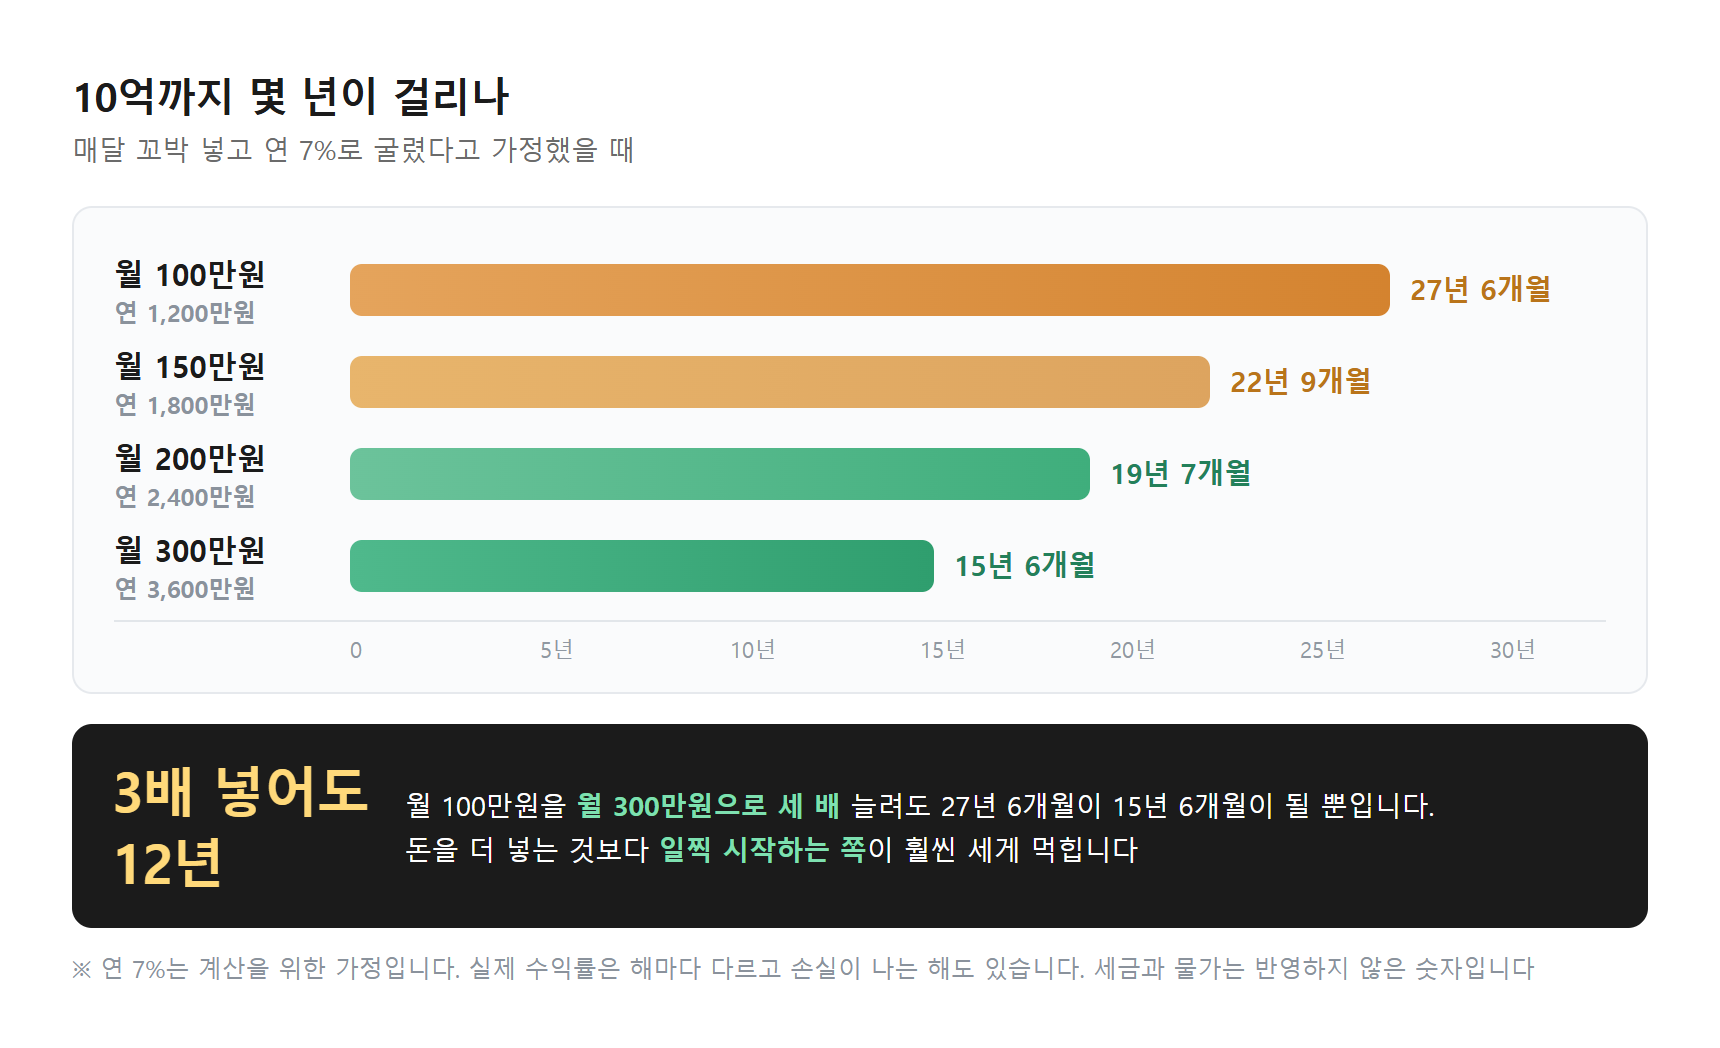
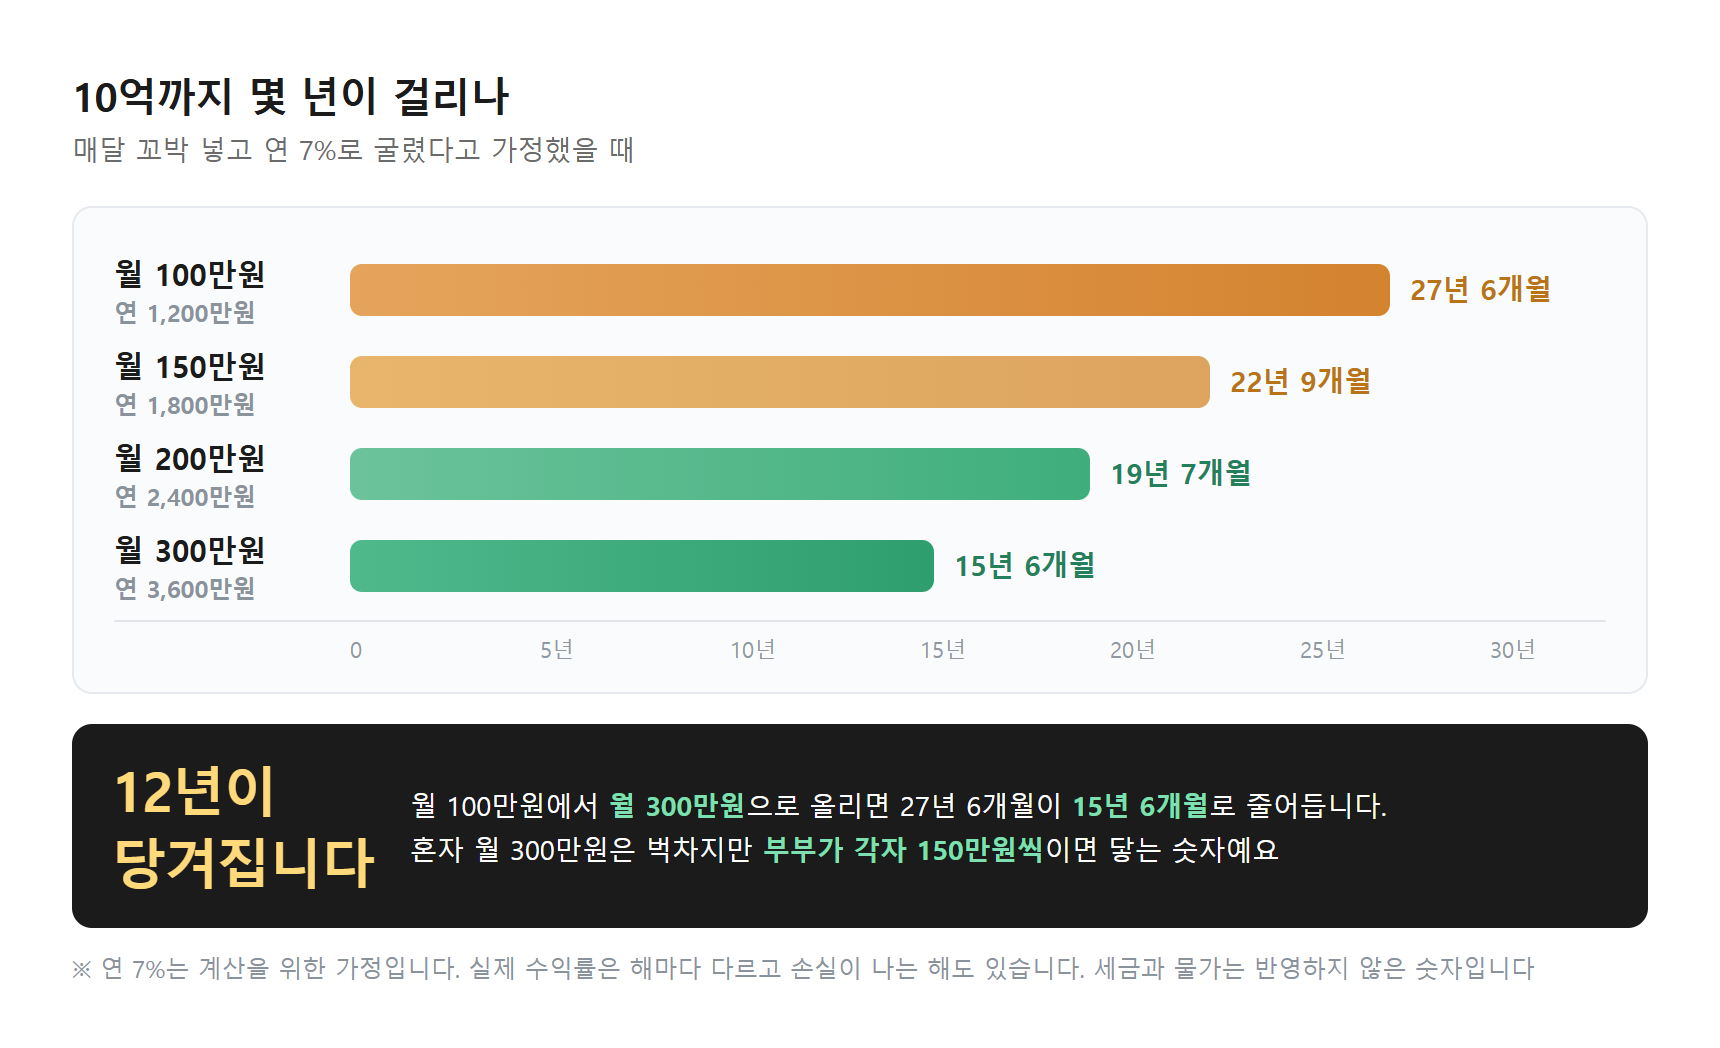
맞벌이·미국지수 vs 부동산 도식 추가

Changed region(s): [[0.0616, 0.7328, 0.832, 0.855]]

diff --git a/art/fi08-tradeoff.html b/art/fi08-tradeoff.html
@@ -1,0 +1,104 @@
+<!doctype html>
+<meta charset="utf-8" />
+<style>
+  * { box-sizing: border-box; margin: 0; padding: 0; }
+  body { background: #fff; }
+  #art {
+    width: 860px; padding: 34px 36px 30px; background: #fff;
+    font-family: 'Pretendard', 'Malgun Gothic', -apple-system, sans-serif; color: #1b1b1b;
+  }
+  h1 { font-size: 20px; letter-spacing: -0.4px; margin-bottom: 4px; }
+  .sub { font-size: 13.5px; color: #6b6b6b; margin-bottom: 20px; }
+
+  .two { display: flex; gap: 12px; margin-bottom: 14px; }
+  .c { flex: 1; border: 1px solid #e2e6ea; border-radius: 12px; overflow: hidden; }
+  .hd { padding: 13px 18px; display: flex; align-items: center; gap: 11px; }
+  .h1 .hd { background: linear-gradient(160deg,#eef4fb,#d9e7f5); }
+  .h2 .hd { background: linear-gradient(160deg,#eef9f3,#d3f0e1); }
+  .hd .t { font-size: 16px; font-weight: 800; letter-spacing: -0.3px; }
+  .h1 .hd .t { color: #1f4a7a; } .h2 .hd .t { color: #1d7050; }
+
+  .bd { padding: 14px 18px 16px; }
+  .sec { font-size: 11.5px; font-weight: 800; margin-bottom: 7px; letter-spacing: .2px; }
+  .sec.g { color: #23805a; } .sec.r { color: #b8463a; }
+  ul { list-style: none; margin-bottom: 13px; }
+  ul:last-child { margin-bottom: 0; }
+  li { font-size: 13px; line-height: 1.6; color: #4a5561; padding-left: 17px;
+       position: relative; margin-bottom: 6px; }
+  li b { color: #1b1b1b; }
+  li::before { position: absolute; left: 0; font-weight: 800; }
+  .good li::before { content: '+'; color: #2f9e6e; }
+  .bad li::before { content: '−'; color: #cf4f43; }
+
+  .lev { background: #1b1b1b; color: #fff; border-radius: 11px; padding: 15px 20px;
+         display: flex; align-items: center; gap: 18px; }
+  .lev .tag { background: #ffd97a; color: #1b1b1b; font-size: 12.5px; font-weight: 800;
+              padding: 6px 13px; border-radius: 14px; white-space: nowrap; flex-shrink: 0; }
+  .lev p { font-size: 13.5px; line-height: 1.7; color: #d8dee4; }
+  .lev p b { color: #ffd97a; }
+</style>
+
+<div id="art">
+  <h1>그래도 한쪽이 정답은 아닙니다</h1>
+  <p class="sub">숫자만 보면 안 되는 이유가 양쪽 다 있어요</p>
+
+  <div class="two">
+    <div class="c h1">
+      <div class="hd">
+        <svg width="34" height="34" viewBox="0 0 34 34">
+          <path d="M4,16 L17,5 L30,16 L30,29 Q30,31 28,31 L6,31 Q4,31 4,29 Z" fill="#7d99b3"/>
+          <path d="M2,16.5 L17,4 L32,16.5" fill="none" stroke="#4a6d8f" stroke-width="2.5" stroke-linecap="round"/>
+          <rect x="13" y="20" width="8" height="11" rx="1.5" fill="#e3edf5"/>
+          <rect x="7" y="19" width="5" height="5" rx="1" fill="#cfe0f0"/>
+          <rect x="22" y="19" width="5" height="5" rx="1" fill="#cfe0f0"/>
+        </svg>
+        <div class="t">부동산</div>
+      </div>
+      <div class="bd">
+        <div class="sec g">이건 부동산이 셉니다</div>
+        <ul class="good">
+          <li><b>대출을 끼고 살 수 있습니다.</b> 내 돈 1억으로 3억짜리를 잡습니다</li>
+          <li>살면서 <b>월세를 안 냅니다.</b> 이것도 수익입니다</li>
+          <li>쉽게 못 파니까 <b>강제로 모아집니다</b></li>
+        </ul>
+        <div class="sec r">대신 이런 게 있어요</div>
+        <ul class="bad">
+          <li>지역과 단지에 따라 편차가 <b>아주 큽니다</b></li>
+          <li>취득세와 보유세, 중개수수료가 붙고 <b>급할 때 안 팔립니다</b></li>
+        </ul>
+      </div>
+    </div>
+
+    <div class="c h2">
+      <div class="hd">
+        <svg width="34" height="34" viewBox="0 0 34 34">
+          <rect x="3" y="4" width="28" height="26" rx="4" fill="#c9ead9"/>
+          <path d="M7,24 L13,17 L18,21 L27,10" fill="none" stroke="#1d7050" stroke-width="2.8"
+                stroke-linecap="round" stroke-linejoin="round"/>
+          <path d="M22,10 h5 v5" fill="none" stroke="#1d7050" stroke-width="2.8"
+                stroke-linecap="round" stroke-linejoin="round"/>
+        </svg>
+        <div class="t">미국 지수</div>
+      </div>
+      <div class="bd">
+        <div class="sec g">이건 주식이 셉니다</div>
+        <ul class="good">
+          <li><b>몇만원부터 시작</b>합니다. 목돈이 없어도 됩니다</li>
+          <li>필요한 만큼만 <b>쪼개서 팔 수 있습니다</b></li>
+          <li>달러 자산이라 <b>원화가 약해질 때 방어</b>가 됩니다</li>
+        </ul>
+        <div class="sec r">대신 이런 게 있어요</div>
+        <ul class="bad">
+          <li>반토막이 나는 해도 있습니다. <b>버티는 게 전부</b>예요</li>
+          <li>환율이 <b>반대로 갈 수도</b> 있고 해외주식 양도세가 22%입니다</li>
+        </ul>
+      </div>
+    </div>
+  </div>
+
+  <div class="lev">
+    <div class="tag">꼭 짚을 것</div>
+    <p>앞 그래프는 <b>둘 다 현금 1억을 넣었다고 본 숫자</b>입니다. 실제로 집은 대출을 끼고 사니까
+      내 돈 대비 수익률은 훨씬 커집니다. 대신 그만큼 <b>이자를 내고 위험도 같이 커집니다</b></p>
+  </div>
+</div>

diff --git a/art/fi07-vs.html b/art/fi07-vs.html
@@ -1,0 +1,79 @@
+<!doctype html>
+<meta charset="utf-8" />
+<style>
+  * { box-sizing: border-box; margin: 0; padding: 0; }
+  body { background: #fff; }
+  #art {
+    width: 860px; padding: 34px 36px 30px; background: #fff;
+    font-family: 'Pretendard', 'Malgun Gothic', -apple-system, sans-serif; color: #1b1b1b;
+  }
+  h1 { font-size: 20px; letter-spacing: -0.4px; margin-bottom: 4px; }
+  .sub { font-size: 13.5px; color: #6b6b6b; margin-bottom: 20px; }
+
+  .chart { background: #fafbfc; border: 1px solid #e6e9ed; border-radius: 10px;
+           padding: 22px 26px 16px; display: flex; align-items: flex-end; gap: 30px; height: 350px; }
+  .col { flex: 1; display: flex; flex-direction: column; align-items: center; justify-content: flex-end; height: 100%; }
+  .val { font-size: 21px; font-weight: 800; letter-spacing: -0.7px; margin-bottom: 3px; }
+  .cum { font-size: 12px; font-weight: 700; color: #8a929c; margin-bottom: 8px; }
+  .bar { width: 100%; border-radius: 9px 9px 0 0; position: relative; }
+  .lab { height: 58px; padding-top: 11px; text-align: center; }
+  .lab .n { font-size: 14.5px; font-weight: 800; }
+  .lab .c { font-size: 12px; color: #8a929c; margin-top: 3px; }
+
+  .c1 .bar { background: linear-gradient(180deg,#9fb6cc,#7d99b3); } .c1 .val { color: #4a6d8f; }
+  .c2 .bar { background: linear-gradient(180deg,#6cc39b,#3fae7c); } .c2 .val { color: #23805a; }
+  .c3 .bar { background: linear-gradient(180deg,#3fae7c,#1d7050); } .c3 .val { color: #1d7050; }
+  .c3 .bar::after { content: ''; position: absolute; left: 0; right: 0; top: 0; height: 96px;
+    background: repeating-linear-gradient(45deg,rgba(255,255,255,.28),rgba(255,255,255,.28) 6px,transparent 6px,transparent 12px);
+    border-radius: 9px 9px 0 0; }
+  .fxtag { position: absolute; top: 34px; left: 50%; transform: translateX(-50%);
+    background: #fff; color: #1d7050; font-size: 12px; font-weight: 800;
+    padding: 5px 11px; border-radius: 13px; border: 2px solid #1d7050; white-space: nowrap; }
+
+  .fx { margin-top: 15px; background: linear-gradient(160deg,#eef9f3,#d6f0e3);
+        border: 1px solid #a9dcc4; border-radius: 10px; padding: 14px 20px;
+        display: flex; align-items: center; gap: 18px; }
+  .fx .big { font-size: 15px; font-weight: 800; color: #1d7050; white-space: nowrap; }
+  .fx p { font-size: 13px; line-height: 1.65; color: #4a5561; }
+  .fx p b { color: #1b1b1b; }
+
+  .src { margin-top: 11px; font-size: 11.5px; color: #9098a2; line-height: 1.6; }
+</style>
+
+<div id="art">
+  <h1>같은 20년에 1억을 넣었다면</h1>
+  <p class="sub">2006년 8월부터 2026년 8월까지 · 배당과 분배금은 다시 넣었다고 봤을 때</p>
+
+  <div class="chart">
+    <div class="col c1">
+      <div class="val">5억 2,000만원</div>
+      <div class="cum">누적 419%</div>
+      <div class="bar" style="height:110px"></div>
+      <div class="lab"><div class="n">서울 아파트</div><div class="c">연 8.6%</div></div>
+    </div>
+
+    <div class="col c2">
+      <div class="val">6억 1,000만원</div>
+      <div class="cum">누적 512%</div>
+      <div class="bar" style="height:129px"></div>
+      <div class="lab"><div class="n">미국 S&amp;P500</div><div class="c">연 9.5% · 달러 기준</div></div>
+    </div>
+
+    <div class="col c3">
+      <div class="val">9억 4,000만원</div>
+      <div class="cum">누적 841%</div>
+      <div class="bar" style="height:199px"><div class="fxtag">환율이 보탠 몫</div></div>
+      <div class="lab"><div class="n">미국 S&amp;P500</div><div class="c">연 11.9% · 원화로 환산</div></div>
+    </div>
+  </div>
+
+  <div class="fx">
+    <div class="big">929.8원 → 1,429.8원</div>
+    <p>20년 동안 원달러 환율이 <b>1.5배</b>가 됐습니다. 달러 자산은 가만히 있어도 원화로 바꿀 때 그만큼 불어난 셈이에요.
+      해마다 <b>2.2%p</b>씩 얹어준 꼴입니다</p>
+  </div>
+
+  <p class="src">※ 서울 아파트는 매매가격지수 20년 누적 상승률, S&amp;P500은 배당 재투자 기준입니다.
+    아파트는 단지와 지역에 따라 편차가 매우 크고 대출을 낀 경우는 계산이 완전히 달라집니다<br />
+    ※ 지난 20년이 그랬다는 기록일 뿐 앞으로도 같으리라는 뜻이 아닙니다. 환율은 반대로 움직일 수도 있습니다</p>
+</div>

diff --git a/art/fi06-couple.html b/art/fi06-couple.html
@@ -1,0 +1,75 @@
+<!doctype html>
+<meta charset="utf-8" />
+<style>
+  * { box-sizing: border-box; margin: 0; padding: 0; }
+  body { background: #fff; }
+  #art {
+    width: 860px; padding: 34px 36px 30px; background: #fff;
+    font-family: 'Pretendard', 'Malgun Gothic', -apple-system, sans-serif; color: #1b1b1b;
+  }
+  h1 { font-size: 20px; letter-spacing: -0.4px; margin-bottom: 4px; }
+  .sub { font-size: 13.5px; color: #6b6b6b; margin-bottom: 20px; }
+
+  .split { display: flex; align-items: center; gap: 12px; margin-bottom: 18px; }
+  .p { flex: 1; border-radius: 11px; padding: 15px 18px; text-align: center; }
+  .p .k { font-size: 12px; font-weight: 700; margin-bottom: 5px; }
+  .p .v { font-size: 24px; font-weight: 800; letter-spacing: -0.9px; }
+  .pa { background: linear-gradient(160deg,#eef4fb,#d9e7f5); border: 1px solid #cfe0f0; }
+  .pa .k { color: #4f7ba8; } .pa .v { color: #1f4a7a; }
+  .pb { background: linear-gradient(160deg,#fdf1ee,#f7ddd4); border: 1px solid #f0d5c8; }
+  .pb .k { color: #a9705a; } .pb .v { color: #a0492f; }
+  .plus { font-size: 24px; font-weight: 800; color: #b8c2cc; flex-shrink: 0; }
+  .eq { font-size: 24px; font-weight: 800; color: #b8c2cc; flex-shrink: 0; }
+  .pt { flex: 1.15; background: linear-gradient(160deg,#eef9f3,#d0eee0); border: 1px solid #a9dcc4;
+        border-radius: 11px; padding: 15px 18px; text-align: center; }
+  .pt .k { font-size: 12px; font-weight: 700; color: #3d9b74; margin-bottom: 5px; }
+  .pt .v { font-size: 24px; font-weight: 800; color: #1d7050; letter-spacing: -0.9px; }
+  .pt .n { font-size: 12.5px; color: #6aa78d; font-weight: 600; margin-top: 3px; }
+
+  .tl { background: #fafbfc; border: 1px solid #e6e9ed; border-radius: 11px; padding: 20px 24px 16px; }
+  .tlab { font-size: 13px; font-weight: 700; color: #55606c; margin-bottom: 14px; }
+  .bar { position: relative; height: 74px; }
+  .track { position: absolute; top: 20px; left: 0; right: 0; height: 16px; border-radius: 8px;
+           background: linear-gradient(90deg,#a9dcc4,#2f9e6e); }
+  .mk { position: absolute; top: 6px; width: 3px; height: 44px; background: #1b1b1b; border-radius: 2px; }
+  .lb { position: absolute; top: -6px; font-size: 13px; font-weight: 800; white-space: nowrap; }
+  .lb2 { position: absolute; top: 54px; font-size: 12px; color: #7b848f; font-weight: 600; white-space: nowrap; }
+
+  .rows { display: flex; gap: 10px; margin-top: 14px; }
+  .r { flex: 1; border: 1px solid #e2e6ea; border-radius: 9px; padding: 12px 14px; background: #fff; }
+  .r .k { font-size: 11.5px; color: #8a929c; font-weight: 700; margin-bottom: 4px; }
+  .r .v { font-size: 15.5px; font-weight: 800; letter-spacing: -0.4px; }
+  .r.hi { background: #eef9f3; border-color: #a9dcc4; } .r.hi .v { color: #1d7050; }
+</style>
+
+<div id="art">
+  <h1>둘이 나눠 넣으면 숫자가 달라집니다</h1>
+  <p class="sub">혼자 월 300만원은 벅차도 각자 150만원이면 해볼 만합니다</p>
+
+  <div class="split">
+    <div class="p pa"><div class="k">한 사람</div><div class="v">월 150만원</div></div>
+    <div class="plus">+</div>
+    <div class="p pb"><div class="k">배우자</div><div class="v">월 150만원</div></div>
+    <div class="eq">=</div>
+    <div class="pt"><div class="k">합쳐서</div><div class="v">월 300만원</div><div class="n">15년 6개월이면 10억</div></div>
+  </div>
+
+  <div class="tl">
+    <div class="tlab">서른에 시작했다면</div>
+    <div class="bar">
+      <div class="track"></div>
+      <div class="mk" style="left:0"></div>
+      <div class="mk" style="left:99.5%"></div>
+      <div class="lb" style="left:0">30세 시작</div>
+      <div class="lb2" style="left:0">첫 달 150만원</div>
+      <div class="lb" style="right:0; text-align:right">45세 · 10억</div>
+      <div class="lb2" style="right:0; text-align:right">15년 6개월 뒤</div>
+    </div>
+
+    <div class="rows">
+      <div class="r"><div class="k">각자 월 100만원 (합 200만원)</div><div class="v">19년 7개월 · 49세</div></div>
+      <div class="r hi"><div class="k">각자 월 150만원 (합 300만원)</div><div class="v">15년 6개월 · 45세</div></div>
+      <div class="r"><div class="k">각자 월 200만원 (합 400만원)</div><div class="v">12년 11개월 · 43세</div></div>
+    </div>
+  </div>
+</div>

diff --git a/art/fi03-10eok.html b/art/fi03-10eok.html
@@ -64,9 +64,9 @@
   </div>
 
   <div class="call">
-    <div class="big">3배 넣어도<br />12년</div>
-    <p>월 100만원을 <b>월 300만원으로 세 배</b> 늘려도 27년 6개월이 15년 6개월이 될 뿐입니다.<br />
-      돈을 더 넣는 것보다 <b>일찍 시작하는 쪽</b>이 훨씬 세게 먹힙니다</p>
+    <div class="big">12년이<br />당겨집니다</div>
+    <p>월 100만원에서 <b>월 300만원</b>으로 올리면 27년 6개월이 <b>15년 6개월</b>로 줄어듭니다.<br />
+      혼자 월 300만원은 벅차지만 <b>부부가 각자 150만원씩</b>이면 닿는 숫자예요</p>
   </div>
 
   <p class="note">※ 연 7%는 계산을 위한 가정입니다. 실제 수익률은 해마다 다르고 손실이 나는 해도 있습니다.
